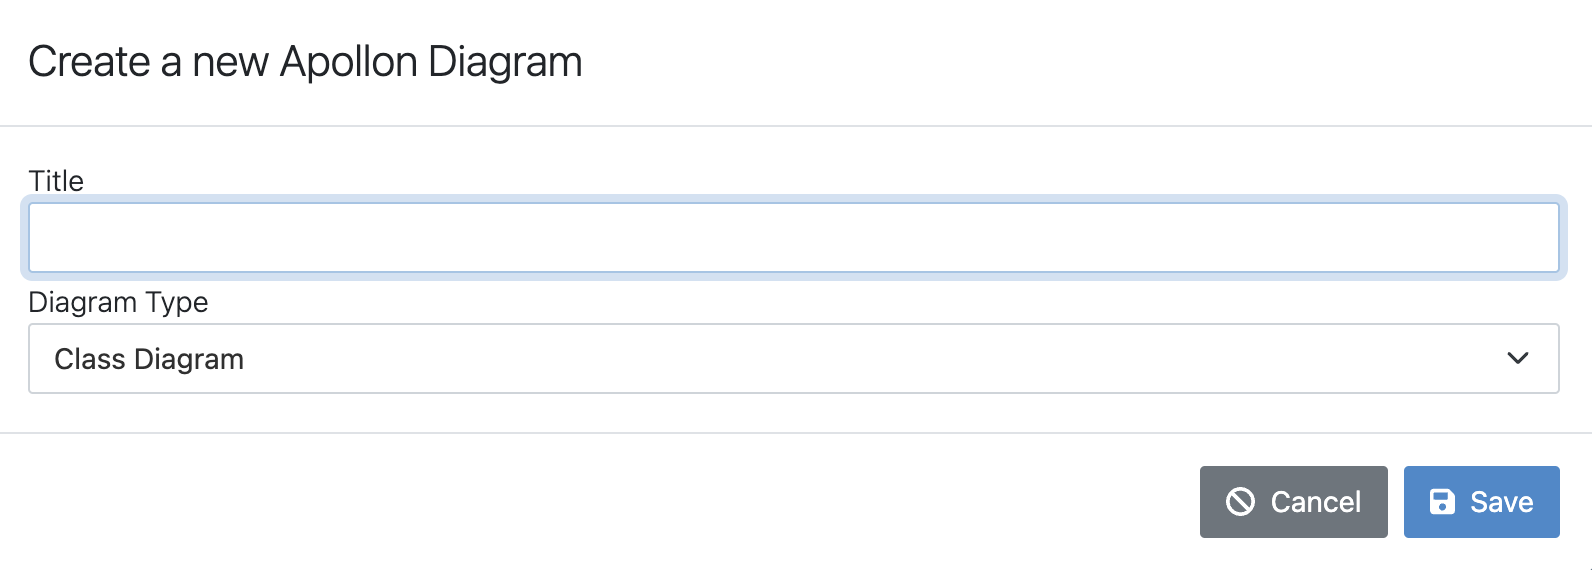
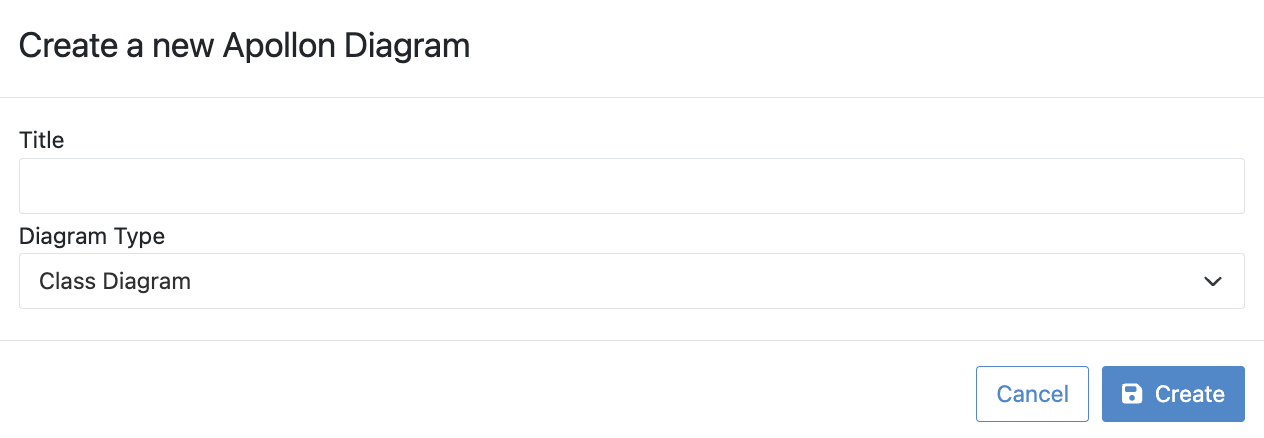
Development: Update exercise documentation (#8349)

Changed region(s): [[0.0, 0.2968, 0.9873, 0.7123], [0.7405, 0.8014, 0.9873, 0.9795], [0.0, 0.0594, 0.3703, 0.1484]]

diff --git a/docs/user/exercises/quiz.rst b/docs/user/exercises/quiz.rst
@@ -69,7 +69,7 @@ Create new Quiz Exercise
 
         - Bonus: the points will be considered as bonus points.
 
-    - **Questions**: There are four ways to add questions to a quiz exercise.
+    - **Questions**: There are multiple ways to add questions to a quiz exercise.
 
         - **Add Multiple-Choice Question**
 
@@ -166,6 +166,73 @@ Create new Quiz Exercise
 
             - Preview View: Enables the student view.
 
+        - **Add Apollon Drag-And-Drop Question**
+
+            - In the quiz edit view click the button |CreateDragAndDropQuizButton|.
+
+                    .. figure:: quiz/apollon-diagrams.png
+                        :align: center
+
+                - In the Apollon diagram view, it is possible to see the list of existing Apollon diagrams and the possible actions to perform with them.
+
+                    - Open
+                    - Delete
+
+                - Clicking on the creation of a new Apollon Diagram button |CreateANewApollonDiagram| opens the following form:
+
+                    .. figure:: quiz/Apollon-form.png
+                        :align: center
+                        :scale: 50
+
+                    - Title (required): provide the title of the Apollon diagram, which will be used as title for the generated quiz question.
+
+                    - Diagram Type: A drop-down menu to select one of the following diagram types:
+
+                        - Class Diagram
+
+                        - Activity Diagram
+
+                        - Object Diagram
+
+                        - Use Case Diagram
+
+                        - Communication Diagram
+
+                        - Component Diagram
+
+                        - Deployment Diagram
+
+                        - Petri Net
+
+                        - Syntax Tree
+
+                        - Flowchart
+
+                    - Create button: Creates the Apollon diagram and opens the edit view.
+
+                    - Cancel button: Returns to the list of existing Apollon diagrams.
+
+                - After creating or opening an Apollon diagram, it can be edited in the edit view.
+
+                    .. figure:: quiz/apollon-editor.png
+                        :align: center
+
+                    - Back to overview link: Returns to the existing Apollon diagram lists.
+
+                    - Download button: Download the diagram as image. The "Crop Image to Selection" checkbox allows to include only the currently selected elements in the image.
+
+                    - Title (required): Allows to edit the tile of the diagram.
+
+                    - Modeling field: The items for modeling the diagram will be displayed here.
+
+                    - Elements to Drag and Drop into the modeling field.
+
+                    - Close: Returns to the quiz view without saving and creating a question.
+
+                    - Save Diagram button: Saves the Apollon diagram and stays in the edit view.
+
+                    - Generate a quiz exercise button: Generates a quiz drag-and-drop question and returns to the quiz edit view.
+
         - **Add Short-Answer Question**
 
             This kind of question is composed of a statement and spots to fill them out by typing the answers.
@@ -248,71 +315,6 @@ Create new Quiz Exercise
 
         - Save button
 
-Create Drag and Drop Model Quiz Exercise
-^^^^^^^^^^^^^^^^^^^^^^^^^^^^^^^^^^^^^^^^
-
-    - In the quiz exercises section click on the Create Quiz button |CreateDragAndDropQuizButton|.
-
-        .. figure:: quiz/apollon-diagrams.png
-            :align: center
-
-    - On the Apollon Diagrams page, it is possible to see the list of Apollon Diagrams and the possible actions to perform with them.
-
-        - Open
-        - Delete
-
-    - Clicking on the creation of a new Apollon Diagram button |CreateANewApollonDiagram| opens the following form:
-
-        .. figure:: quiz/Apollon-form.png
-            :align: center
-            :scale: 50
-
-        - Title: provide the title of the Drag-and-Drop Model Quiz
-
-        - Diagram Type: It is a list picker to select between several diagrams:
-
-            - Class Diagram
-
-            - Activity Diagram
-
-            - Object Diagram
-
-            - Use Case Diagram
-
-            - Communication Diagram
-
-            - Component Diagram
-
-            - Deployment Diagram
-
-            - Petri Net
-
-            - Syntax Tree
-
-            - Flowchart
-
-        - Save button
-
-        - Cancel button
-
-    - Click the save button to open the Apollon editor
-
-        .. figure:: quiz/apollon-editor.png
-            :align: center
-
-        - Title: Allows to edit the tile of the diagram.
-
-        - Crop image to selection: Allows to download the current selection.
-
-        - Download button: To download the selection.
-
-        - Generate a quiz exercise button.
-
-        - Save button.
-
-        - Modeling field: The items for modeling the diagram will be displayed here.
-
-        - Elements to Drag and Drop in the Modeling field.
 
 Import a Quiz
 ^^^^^^^^^^^^^
